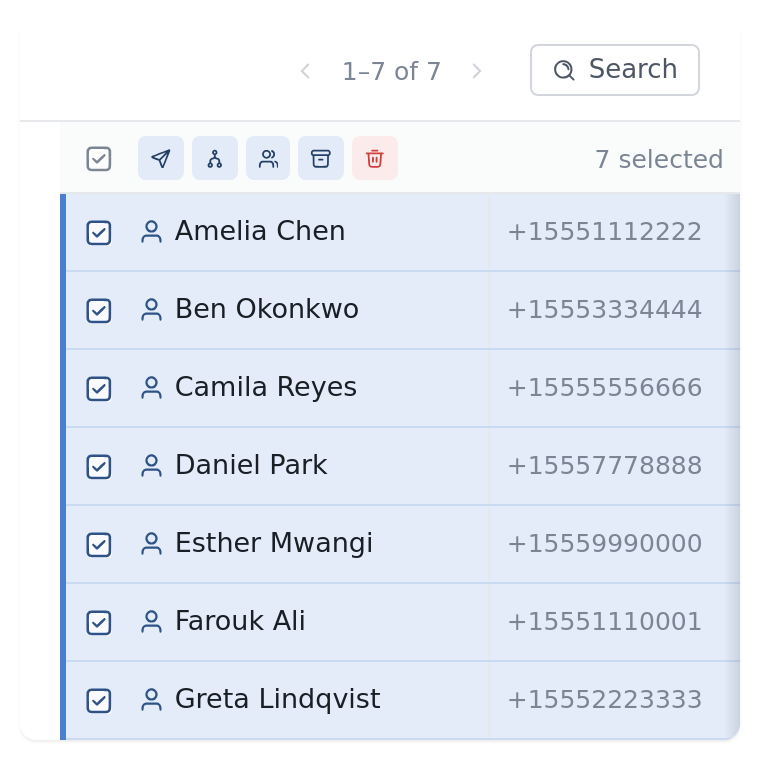
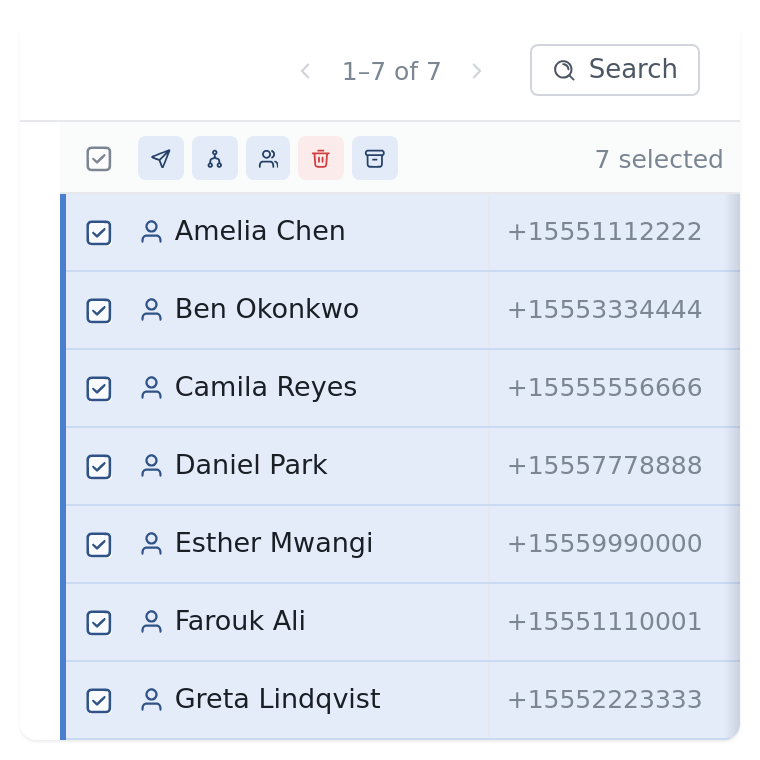
Fix bulk action bar hidden under pinned column headers
The resizable-columns change raised pinned header cells to z-index 5 so
the resize handles stay clickable, but left the bulk action bar at 4 —
on any list with a pinned first column the leading action chips were
painted over (and unclickable) when rows were selected. Lift the bar
above every header layer and add a hit-test regression test, since the
obscured chips are too small a slice of the screenshot diff to trip the
comparison threshold.

Also reorder the default bulk actions so Archive is always last, and
drop the resize handle from the message list's Sent column — as the
last column its only handle sat on the table's outer edge.

diff --git a/test/temba-content-list.test.ts b/test/temba-content-list.test.ts
@@ -1302,6 +1302,56 @@ describe('temba-content-list', () => {
     await assertScreenshot('content-list/contacts-bulk', getClip(list));
   });
 
+  it('keeps the bulk actions above the pinned column header', async () => {
+    await loadStore();
+    const list = (await getComponent(
+      'temba-contact-list',
+      { endpoint: '/test-assets/content-list/contacts.json' },
+      '',
+      1100
+    )) as ContactList;
+    await new Promise<void>((resolve) => {
+      list.addEventListener(CustomEventType.FetchComplete, () => resolve(), {
+        once: true
+      });
+    });
+    for (
+      let i = 0;
+      i < 200 && (list as any).featuredFields?.length === 0;
+      i++
+    ) {
+      await new Promise((r) => setTimeout(r, 10));
+    }
+
+    // select via a real row-checkbox click, like a user would
+    const checkCell = list.shadowRoot!.querySelector(
+      'tr.row td.check-cell'
+    ) as HTMLElement;
+    checkCell.click();
+    await list.updateComplete;
+
+    const bar = list.shadowRoot!.querySelector('.bulk-bar') as HTMLElement;
+    assert.exists(bar, 'bulk bar should render when rows are selected');
+
+    // the leading chips overlap the pinned Name header, which stacks
+    // above ordinary header cells for the resize handles — the bar must
+    // still paint (and hit-test) above it, or the first actions are
+    // hidden and unclickable under the pinned header
+    const chips = Array.from(bar.querySelectorAll<HTMLElement>('.bulk-action'));
+    expect(chips.length).to.be.greaterThan(0);
+    chips.forEach((chip) => {
+      const rect = chip.getBoundingClientRect();
+      const top = list.shadowRoot!.elementFromPoint(
+        rect.left + rect.width / 2,
+        rect.top + rect.height / 2
+      ) as HTMLElement;
+      expect(
+        bar.contains(top),
+        `${chip.title} chip should be on top, got ${top?.tagName}.${top?.className}`
+      ).to.be.true;
+    });
+  });
+
   it('collapses the bulk action labels to icons when the bar is too narrow', async () => {
     await loadStore();
     const list = (await getComponent(

diff --git a/src/list/ContentList.ts b/src/list/ContentList.ts
@@ -214,7 +214,9 @@ export class ContentList<T = any> extends RapidElement {
          the select-all checkbox — rather than replacing the page header.
          Positioned in the table-frame (not the scrolling table) so it
          stays put horizontally, with an opaque header-tint background to
-         hide the labels underneath, above the sticky header (z 2/3). */
+         hide the labels underneath, above every header layer — pinned
+         header cells reach z 5 (see tr.header th.pinned), so the bar
+         sits at 6 to cover them too. */
       .bulk-bar {
         position: absolute;
         top: 0;
@@ -225,7 +227,7 @@ export class ContentList<T = any> extends RapidElement {
         left: var(--cl-firstcol-left, 44px);
         right: var(--cl-scrollbar-w, 0px);
         height: var(--cl-header-height, 36px);
-        z-index: 4;
+        z-index: 6;
         display: flex;
         align-items: center;
         gap: 4px;
@@ -567,8 +569,10 @@ export class ContentList<T = any> extends RapidElement {
 
       /* The header row sticks to the top of the scroll frame so the
          column labels stay put while the rows scroll under them.
-         z-index 2 lifts it above the body; a pinned header cell
-         needs 3 to also clear the body's pinned column (z-index 1). */
+         z-index 2 lifts it above the body; a pinned header cell needs
+         more to also clear the body's pinned column (z-index 1) and the
+         resize-handle layers (z 4) — but must stay under the bulk-action
+         bar (z 6), which overlays the whole header row on selection. */
       tr.header th {
         height: 36px;
         vertical-align: middle;

diff --git a/src/list/MsgList.ts b/src/list/MsgList.ts
@@ -118,11 +118,13 @@ export class MsgList extends ContentList<Msg> {
         resizable: true
       },
       { key: 'text', label: 'Message', grow: true },
+      // Sent is deliberately not resizable: it's the last column, so its
+      // only possible handle would sit on the table's outer edge (Message
+      // is the grow column and owns the boundary between them).
       {
         key: 'created_on',
         label: 'Sent',
-        align: 'right',
-        resizable: true
+        align: 'right'
       }
     ];
     this.bulkActions = [
@@ -132,8 +134,8 @@ export class MsgList extends ContentList<Msg> {
         icon: Icon.label,
         labelsEndpoint: '/api/v2/labels.json'
       },
-      { key: 'archive', label: 'Archive', icon: Icon.archive },
-      { key: 'delete', label: 'Delete', icon: Icon.delete, destructive: true }
+      { key: 'delete', label: 'Delete', icon: Icon.delete, destructive: true },
+      { key: 'archive', label: 'Archive', icon: Icon.archive }
     ];
   }
 

diff --git a/src/list/ContactList.ts b/src/list/ContactList.ts
@@ -79,8 +79,8 @@ export class ContactList extends ContentList<Contact> {
         labelsEndpoint: '/api/v2/groups.json?manual_only=1',
         labelsKey: 'groups'
       },
-      { key: 'archive', label: 'Archive', icon: Icon.archive },
-      { key: 'delete', label: 'Delete', icon: Icon.delete, destructive: true }
+      { key: 'delete', label: 'Delete', icon: Icon.delete, destructive: true },
+      { key: 'archive', label: 'Archive', icon: Icon.archive }
     ];
   }
 
